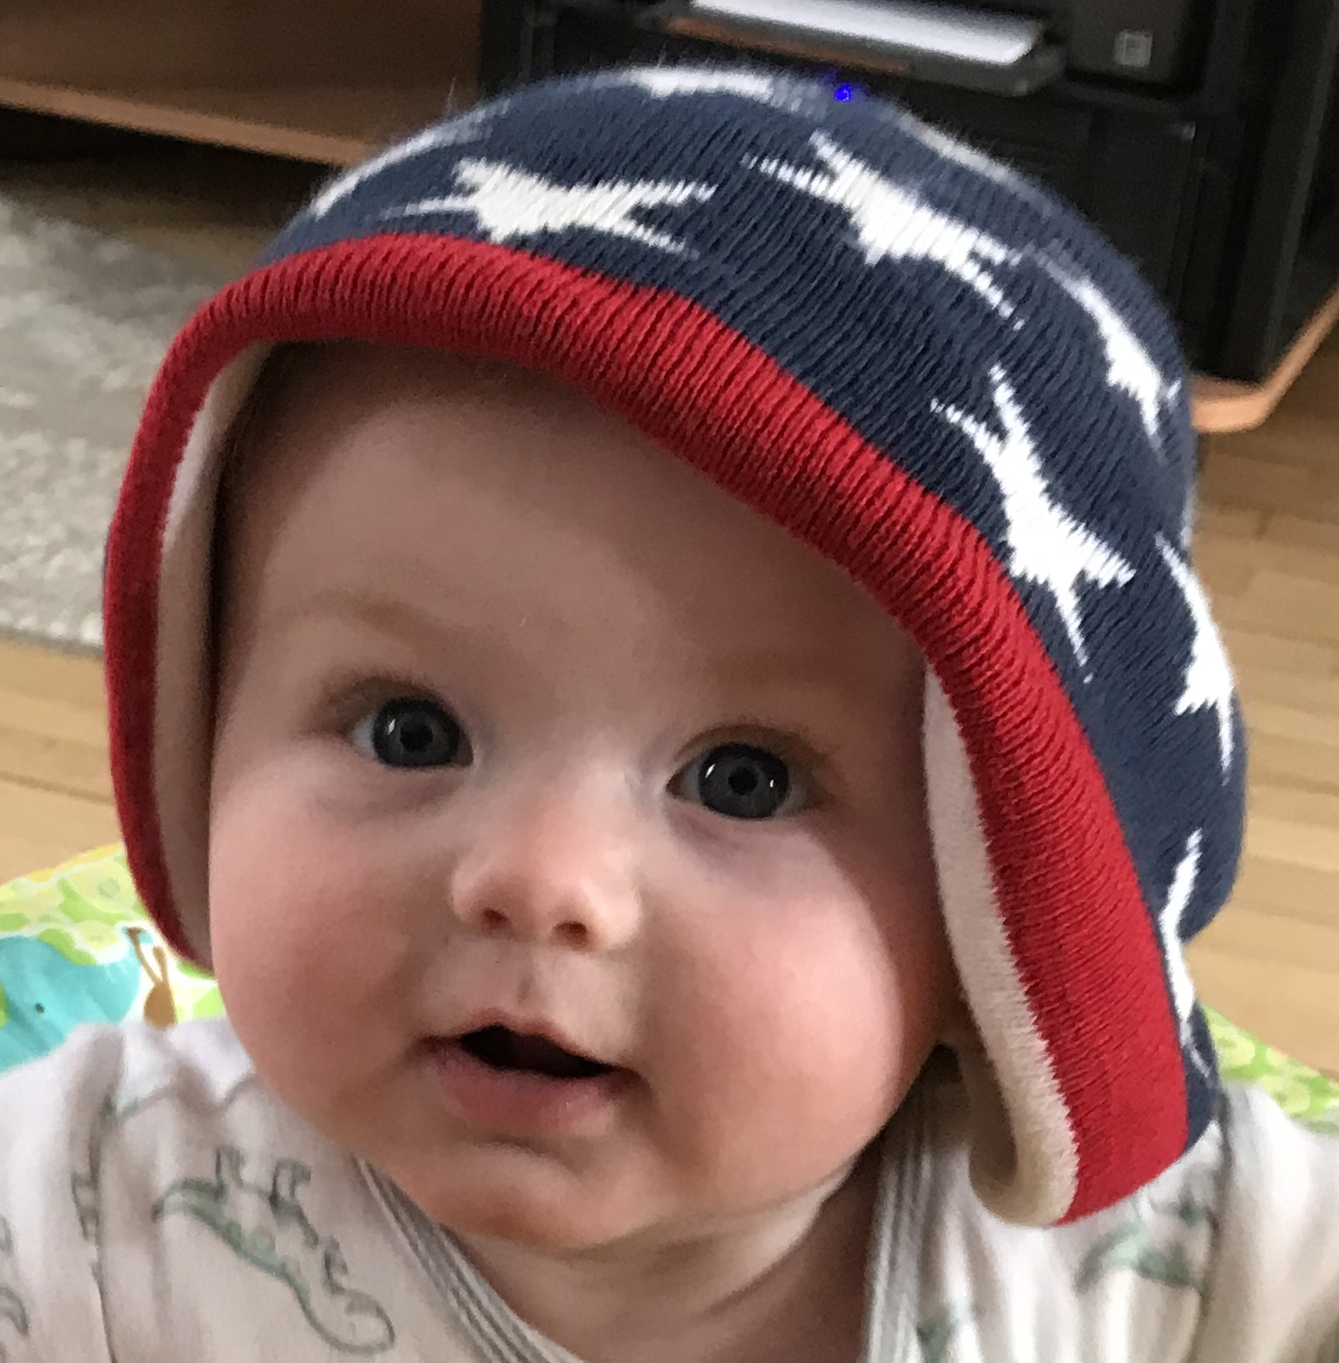
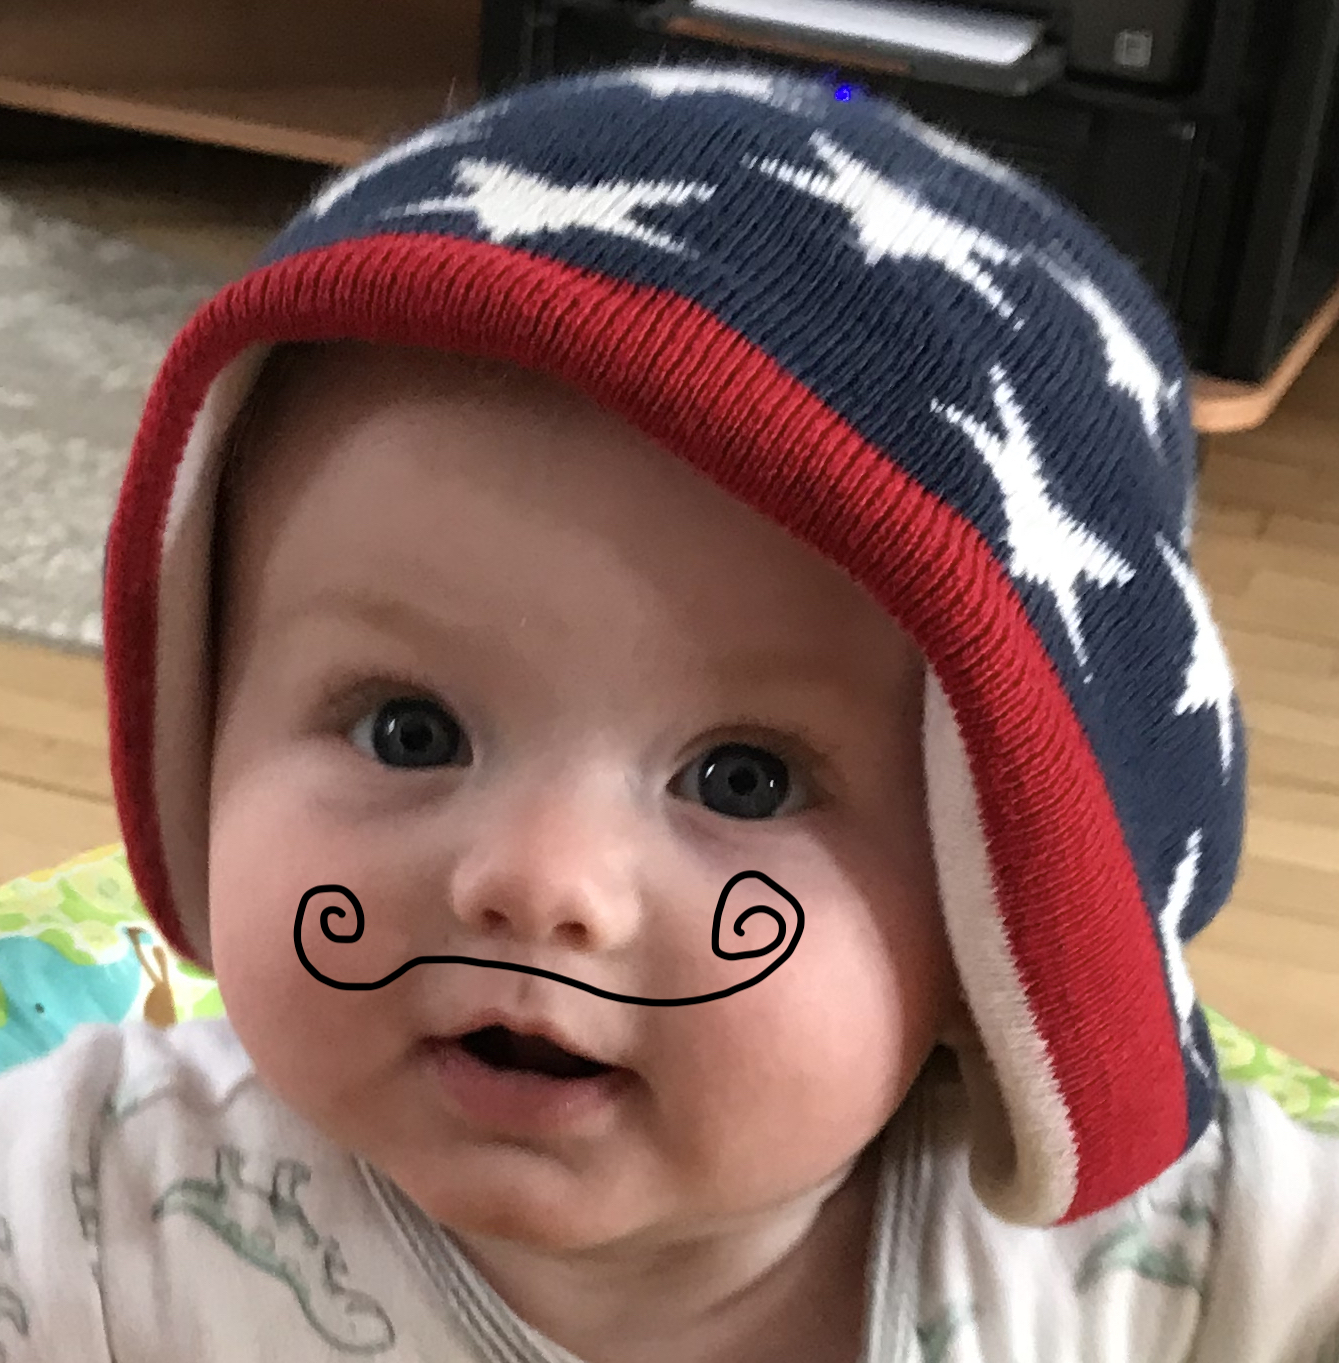
modify image

Changed region(s): [[0.3674, 0.6163, 0.6124, 0.7395], [0.2143, 0.6471, 0.3062, 0.7395], [0.3062, 0.6779, 0.3674, 0.7087]]

diff --git a/README.md b/README.md
@@ -44,5 +44,8 @@ $ du -sch .[!.]* *
 2.4M    total
 ```
 
+## Update the image
+
+![Neat stache!](babyhat.jpg)
 
 
